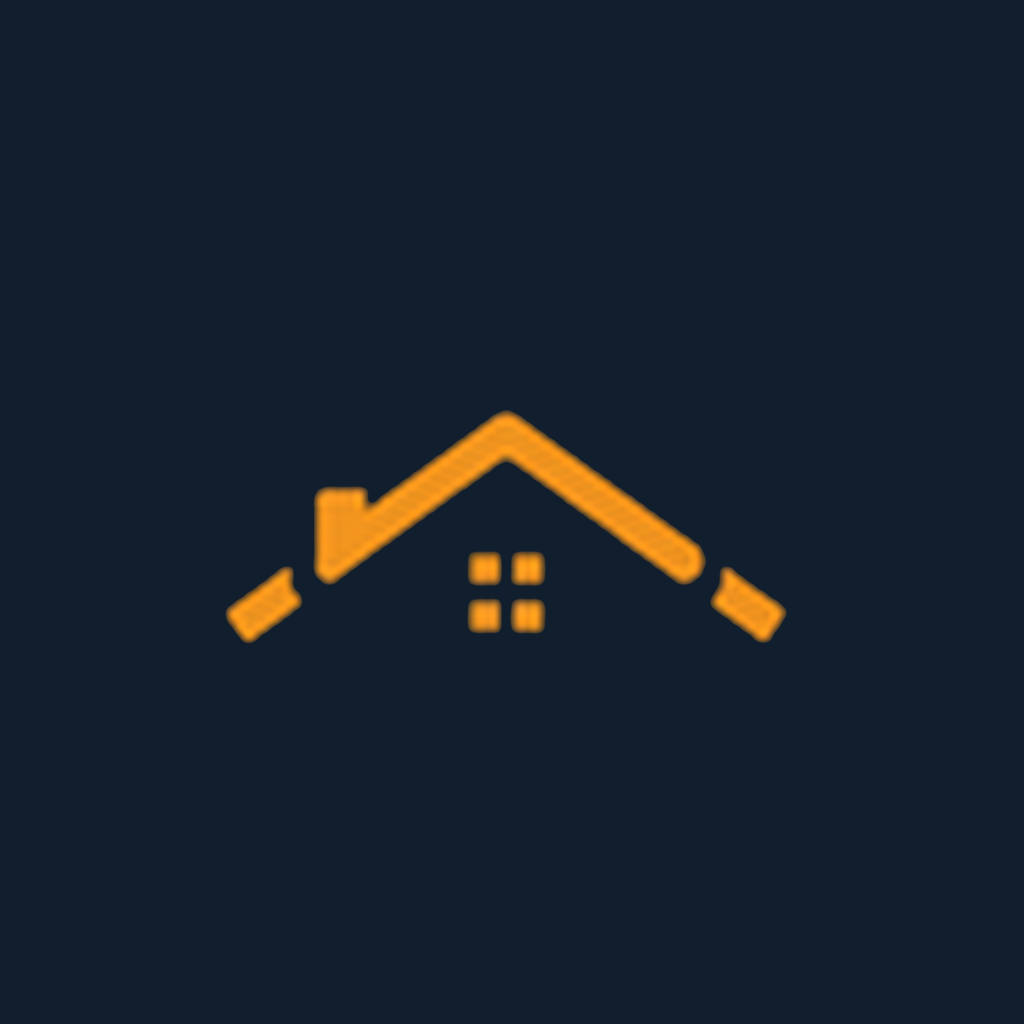
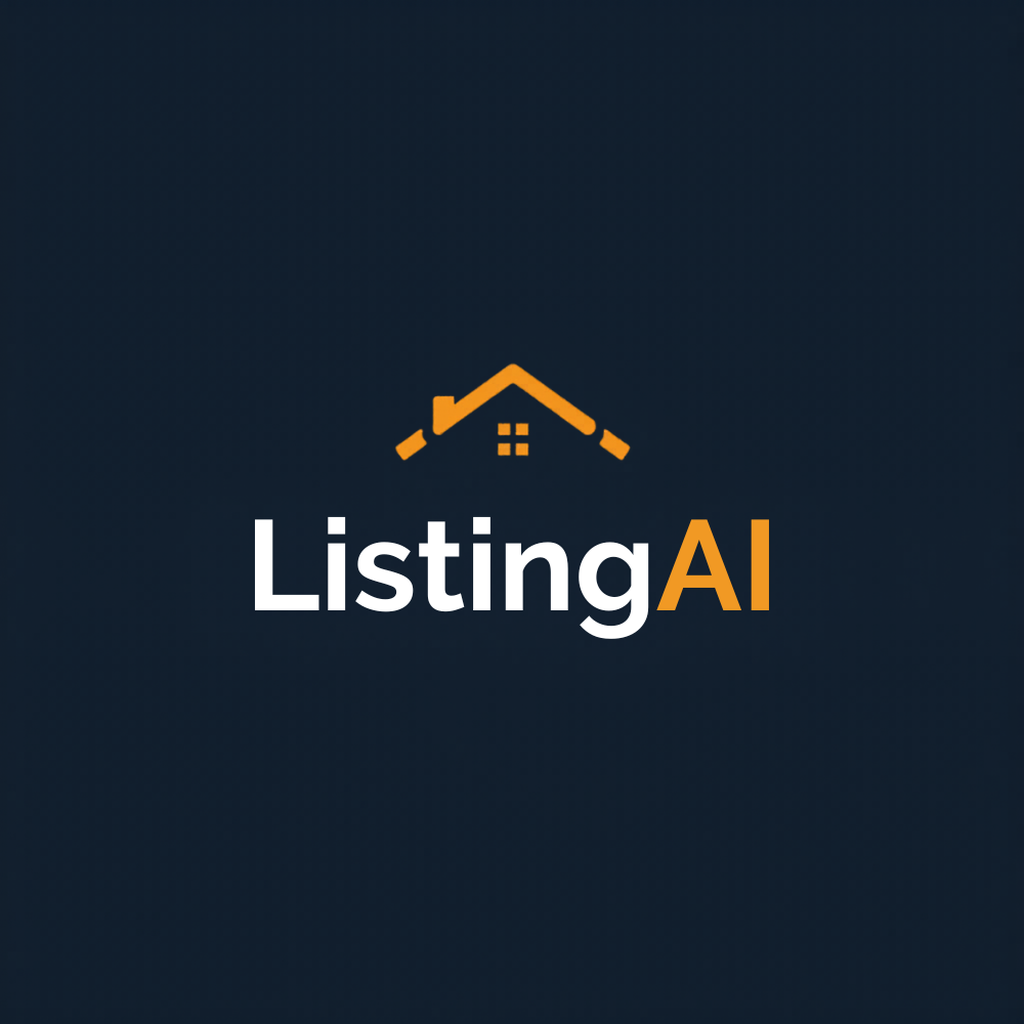
Fix all Apple App Store rejection issues for v1.0 resubmission
- Fix microphone crash: add waitForForeground() to useAudioRecorder so
  Audio.setAudioModeAsync isn't called while app is backgrounded during
  the iOS permission dialog
- Fix Sign In button: add sign-in/sign-up modal with Firebase auth to
  the previously non-functional button on the Settings screen
- Update permission purpose strings in app.json with specific feature
  descriptions (camera for property photos, mic for voice dictation,
  photo library for selecting images)
- Replace placeholder Expo icon with ListingAI branded logo (1024x1024)
- Add support page (public/support.html) with FAQs and contact info
- Add Vercel rewrite for /support route

Changed region(s): [[0.2188, 0.3438, 0.7812, 0.625]]

diff --git a/app/(tabs)/settings.js b/app/(tabs)/settings.js
@@ -1,13 +1,13 @@
 import React, { useState, useEffect, useRef } from 'react';
 import {
   View, ScrollView, Text, TouchableOpacity, Alert, ActivityIndicator,
-  AppState,
+  AppState, Modal, TextInput, KeyboardAvoidingView, Platform,
 } from 'react-native';
 import { useSafeAreaInsets } from 'react-native-safe-area-context';
 import { Ionicons } from '@expo/vector-icons';
 import * as Linking from 'expo-linking';
 import { useAuth } from '../../src/context/AuthContext';
-import { signOutUser } from '../../src/services/firebase';
+import { signOutUser, signInUser, signUpUser } from '../../src/services/firebase';
 import { createCheckoutSession } from '../../src/services/api';
 import { PromoModal } from '../../src/components/PromoModal';
 import { COLORS, SPACING, RADIUS, TYPOGRAPHY, SHADOWS } from '../../src/constants/theme';
@@ -16,6 +16,11 @@ export default function SettingsScreen() {
   const insets = useSafeAreaInsets();
   const { user, isPro, hasPromo, redeemPromoCode, refreshProStatus } = useAuth();
   const [showPromoModal, setShowPromoModal] = useState(false);
+  const [showSignInModal, setShowSignInModal] = useState(false);
+  const [signInEmail, setSignInEmail] = useState('');
+  const [signInPassword, setSignInPassword] = useState('');
+  const [signInLoading, setSignInLoading] = useState(false);
+  const [isSignUp, setIsSignUp] = useState(false);
   const [promoLoading, setPromoLoading] = useState(false);
   const [upgradeLoading, setUpgradeLoading] = useState(false);
   const [verifying, setVerifying] = useState(false);
@@ -96,6 +101,38 @@ export default function SettingsScreen() {
       }
     } finally {
       setVerifying(false);
+    }
+  };
+
+  const handleSignIn = async () => {
+    if (!signInEmail.trim() || !signInPassword.trim()) {
+      Alert.alert('Error', 'Please enter both email and password.');
+      return;
+    }
+    try {
+      setSignInLoading(true);
+      if (isSignUp) {
+        await signUpUser(signInEmail.trim(), signInPassword.trim());
+      } else {
+        await signInUser(signInEmail.trim(), signInPassword.trim());
+      }
+      setShowSignInModal(false);
+      setSignInEmail('');
+      setSignInPassword('');
+    } catch (error) {
+      const msg =
+        error.code === 'auth/user-not-found' || error.code === 'auth/wrong-password'
+          ? 'Invalid email or password.'
+          : error.code === 'auth/email-already-in-use'
+          ? 'An account with this email already exists. Try signing in instead.'
+          : error.code === 'auth/weak-password'
+          ? 'Password must be at least 6 characters.'
+          : error.code === 'auth/invalid-email'
+          ? 'Please enter a valid email address.'
+          : error.message || 'Authentication failed.';
+      Alert.alert('Error', msg);
+    } finally {
+      setSignInLoading(false);
     }
   };
 
@@ -215,6 +252,7 @@ export default function SettingsScreen() {
                 Sign in to save your progress and track usage.
               </Text>
               <TouchableOpacity
+                onPress={() => setShowSignInModal(true)}
                 style={{
                   backgroundColor: COLORS.orange,
                   paddingVertical: SPACING.lg,
@@ -412,6 +450,111 @@ export default function SettingsScreen() {
       </ScrollView>
 
       <PromoModal visible={showPromoModal} onDismiss={() => setShowPromoModal(false)} onApply={handlePromoSubmit} loading={promoLoading} />
+
+      {/* Sign In / Sign Up Modal */}
+      <Modal
+        visible={showSignInModal}
+        transparent
+        animationType="slide"
+        onRequestClose={() => setShowSignInModal(false)}
+      >
+        <KeyboardAvoidingView
+          behavior={Platform.OS === 'ios' ? 'padding' : 'height'}
+          style={{ flex: 1, justifyContent: 'center', alignItems: 'center', backgroundColor: 'rgba(0,0,0,0.5)' }}
+        >
+          <View
+            style={{
+              backgroundColor: COLORS.white,
+              borderRadius: RADIUS.lg,
+              padding: SPACING.xl,
+              width: '85%',
+              maxWidth: 400,
+              ...SHADOWS.lg,
+            }}
+          >
+            <Text style={{ ...TYPOGRAPHY.h4, color: COLORS.navy, marginBottom: SPACING.lg, textAlign: 'center' }}>
+              {isSignUp ? 'Create Account' : 'Sign In'}
+            </Text>
+
+            <TextInput
+              placeholder="Email"
+              value={signInEmail}
+              onChangeText={setSignInEmail}
+              autoCapitalize="none"
+              keyboardType="email-address"
+              textContentType="emailAddress"
+              style={{
+                borderWidth: 1,
+                borderColor: COLORS.gray200,
+                borderRadius: RADIUS.md,
+                padding: SPACING.md,
+                marginBottom: SPACING.md,
+                fontSize: 16,
+                color: COLORS.navy,
+              }}
+            />
+
+            <TextInput
+              placeholder="Password"
+              value={signInPassword}
+              onChangeText={setSignInPassword}
+              secureTextEntry
+              textContentType={isSignUp ? 'newPassword' : 'password'}
+              style={{
+                borderWidth: 1,
+                borderColor: COLORS.gray200,
+                borderRadius: RADIUS.md,
+                padding: SPACING.md,
+                marginBottom: SPACING.xl,
+                fontSize: 16,
+                color: COLORS.navy,
+              }}
+            />
+
+            <TouchableOpacity
+              onPress={handleSignIn}
+              disabled={signInLoading}
+              style={{
+                backgroundColor: COLORS.orange,
+                paddingVertical: SPACING.lg,
+                borderRadius: RADIUS.lg,
+                alignItems: 'center',
+                marginBottom: SPACING.md,
+                opacity: signInLoading ? 0.6 : 1,
+              }}
+            >
+              {signInLoading ? (
+                <ActivityIndicator color={COLORS.white} />
+              ) : (
+                <Text style={{ color: COLORS.white, fontWeight: '700', fontSize: 16 }}>
+                  {isSignUp ? 'Create Account' : 'Sign In'}
+                </Text>
+              )}
+            </TouchableOpacity>
+
+            <TouchableOpacity
+              onPress={() => setIsSignUp(!isSignUp)}
+              style={{ alignItems: 'center', marginBottom: SPACING.md }}
+            >
+              <Text style={{ color: COLORS.orange, fontSize: 14 }}>
+                {isSignUp ? 'Already have an account? Sign In' : "Don't have an account? Sign Up"}
+              </Text>
+            </TouchableOpacity>
+
+            <TouchableOpacity
+              onPress={() => {
+                setShowSignInModal(false);
+                setSignInEmail('');
+                setSignInPassword('');
+                setIsSignUp(false);
+              }}
+              style={{ alignItems: 'center' }}
+            >
+              <Text style={{ color: COLORS.gray600, fontSize: 14 }}>Cancel</Text>
+            </TouchableOpacity>
+          </View>
+        </KeyboardAvoidingView>
+      </Modal>
     </View>
   );
 }

diff --git a/public/support.html b/public/support.html
@@ -1,0 +1,163 @@
+<!DOCTYPE html>
+<html lang="en">
+<head>
+    <meta charset="UTF-8">
+    <meta name="viewport" content="width=device-width, initial-scale=1.0">
+    <title>Support - ListingAI</title>
+    <style>
+        * { margin: 0; padding: 0; box-sizing: border-box; }
+        body {
+            font-family: -apple-system, BlinkMacSystemFont, 'Segoe UI', Roboto, sans-serif;
+            background: #0a1628;
+            color: #e2e8f0;
+            line-height: 1.7;
+        }
+        nav {
+            display: flex;
+            justify-content: space-between;
+            align-items: center;
+            padding: 1.5rem 2rem;
+            max-width: 900px;
+            margin: 0 auto;
+        }
+        nav img { height: 32px; }
+        nav a {
+            color: #f5a623;
+            text-decoration: none;
+            font-weight: 600;
+            font-size: 0.95rem;
+        }
+        .logo-text {
+            font-size: 1.4rem;
+            font-weight: 700;
+            color: #ffffff;
+        }
+        .logo-text span { color: #f5a623; }
+        .container {
+            max-width: 760px;
+            margin: 0 auto;
+            padding: 2rem 2rem 4rem;
+        }
+        h1 {
+            font-size: 2.2rem;
+            color: #ffffff;
+            margin-bottom: 0.5rem;
+        }
+        h1 span { color: #f5a623; }
+        .subtitle {
+            color: #94a3b8;
+            font-size: 1rem;
+            margin-bottom: 2.5rem;
+        }
+        h2 {
+            font-size: 1.25rem;
+            color: #f5a623;
+            margin-top: 2rem;
+            margin-bottom: 0.75rem;
+        }
+        p { margin-bottom: 1rem; color: #cbd5e1; }
+        strong { color: #e2e8f0; }
+        a { color: #f5a623; }
+        .contact-card {
+            background: rgba(245, 166, 35, 0.08);
+            border: 1px solid rgba(245, 166, 35, 0.2);
+            border-radius: 12px;
+            padding: 1.5rem;
+            margin-bottom: 1.5rem;
+        }
+        .contact-card p { margin-bottom: 0.5rem; }
+        .contact-card p:last-child { margin-bottom: 0; }
+        .faq-item {
+            margin-bottom: 1.5rem;
+        }
+        .faq-item h3 {
+            font-size: 1.05rem;
+            color: #ffffff;
+            margin-bottom: 0.4rem;
+        }
+        .faq-item p {
+            color: #94a3b8;
+            font-size: 0.95rem;
+        }
+        .footer-links {
+            margin-top: 3rem;
+            padding-top: 1.5rem;
+            border-top: 1px solid rgba(255,255,255,0.1);
+            text-align: center;
+            font-size: 0.85rem;
+            color: #64748b;
+        }
+        .footer-links a {
+            color: #94a3b8;
+            text-decoration: none;
+            margin: 0 0.75rem;
+        }
+        .footer-links a:hover { color: #f5a623; }
+    </style>
+</head>
+<body>
+    <nav>
+        <div class="logo-text">Listing<span>AI</span></div>
+        <a href="/">Home</a>
+    </nav>
+
+    <div class="container">
+        <h1>Support &amp; <span>Help</span></h1>
+        <p class="subtitle">We're here to help you get the most out of ListingAI.</p>
+
+        <h2>Contact Us</h2>
+        <div class="contact-card">
+            <p><strong>Email:</strong> <a href="mailto:support@listing-ai.app">support@listing-ai.app</a></p>
+            <p><strong>Response time:</strong> We typically respond within 24 hours on business days.</p>
+        </div>
+
+        <h2>Frequently Asked Questions</h2>
+
+        <div class="faq-item">
+            <h3>How do I generate a listing description?</h3>
+            <p>Open the app, enter your property details (address, bedrooms, bathrooms, square footage, and key features), choose your preferred writing tone, and tap "Generate." You can also use the microphone button to dictate details by voice or add property photos for more tailored results.</p>
+        </div>
+
+        <div class="faq-item">
+            <h3>What does the Pro subscription include?</h3>
+            <p>Free users get 3 listing generations. The Pro subscription ($9.99/month) unlocks unlimited generations, all writing tones, MLS-specific formatting, and priority support.</p>
+        </div>
+
+        <div class="faq-item">
+            <h3>How do I restore my subscription on a new device?</h3>
+            <p>Open ListingAI on your new device, sign in with the same account, go to Settings, and tap "Restore Purchases." Your Pro access will be restored automatically.</p>
+        </div>
+
+        <div class="faq-item">
+            <h3>How do I cancel my subscription?</h3>
+            <p>ListingAI subscriptions are managed through Apple. Open your iPhone Settings, tap your name at the top, then Subscriptions, find ListingAI, and tap Cancel Subscription. You'll retain Pro access until the end of your current billing period.</p>
+        </div>
+
+        <div class="faq-item">
+            <h3>Why does ListingAI need microphone access?</h3>
+            <p>The microphone is used for the voice dictation feature, which lets you describe property details by speaking instead of typing — handy when you're on-site at a listing. You can deny this permission and use the app with text input only.</p>
+        </div>
+
+        <div class="faq-item">
+            <h3>Why does ListingAI need camera or photo access?</h3>
+            <p>You can optionally include property photos to help the AI generate more accurate and detailed descriptions. Camera access lets you take photos on-site; photo library access lets you select existing images. Both permissions are optional.</p>
+        </div>
+
+        <div class="faq-item">
+            <h3>Is my data private?</h3>
+            <p>Yes. ListingAI does not sell or share your personal data. Property details you enter are sent to our AI provider solely to generate your listing and are not stored after generation. See our <a href="/privacy">Privacy Policy</a> for full details.</p>
+        </div>
+
+        <div class="faq-item">
+            <h3>Are the generated listings Fair Housing compliant?</h3>
+            <p>ListingAI includes a built-in Fair Housing language scanner that automatically flags and corrects potentially non-compliant language. However, you should always review your final listing before publishing, as the tool is an aid — not a substitute for professional judgment.</p>
+        </div>
+
+        <div class="footer-links">
+            <a href="/privacy">Privacy Policy</a>
+            <a href="/terms">Terms of Service</a>
+            <a href="mailto:support@listing-ai.app">Email Support</a>
+        </div>
+    </div>
+</body>
+</html>

diff --git a/src/hooks/useAudioRecorder.js b/src/hooks/useAudioRecorder.js
@@ -1,6 +1,27 @@
 import { useState } from 'react';
+import { AppState } from 'react-native';
 import { Audio } from 'expo-av';
 import * as FileSystem from 'expo-file-system/legacy';
+
+// Wait for the app to return to foreground after a system dialog
+const waitForForeground = () =>
+  new Promise(resolve => {
+    if (AppState.currentState === 'active') {
+      resolve();
+      return;
+    }
+    const sub = AppState.addEventListener('change', next => {
+      if (next === 'active') {
+        sub.remove();
+        resolve();
+      }
+    });
+    // Safety timeout — resolve anyway after 2s
+    setTimeout(() => {
+      sub.remove();
+      resolve();
+    }, 2000);
+  });
 
 export function useAudioRecorder() {
   const [recording, setRecording] = useState(null);
@@ -24,6 +45,11 @@ export function useAudioRecorder() {
       if (!hasPermission) {
         throw new Error('Audio recording permission is required');
       }
+
+      // Wait for app to return to foreground after the permission dialog
+      // dismisses — iOS puts the app in background while the dialog is showing,
+      // and Audio.setAudioModeAsync will fail if called before it's active again.
+      await waitForForeground();
 
       await Audio.setAudioModeAsync({
         allowsRecordingIOS: true,
